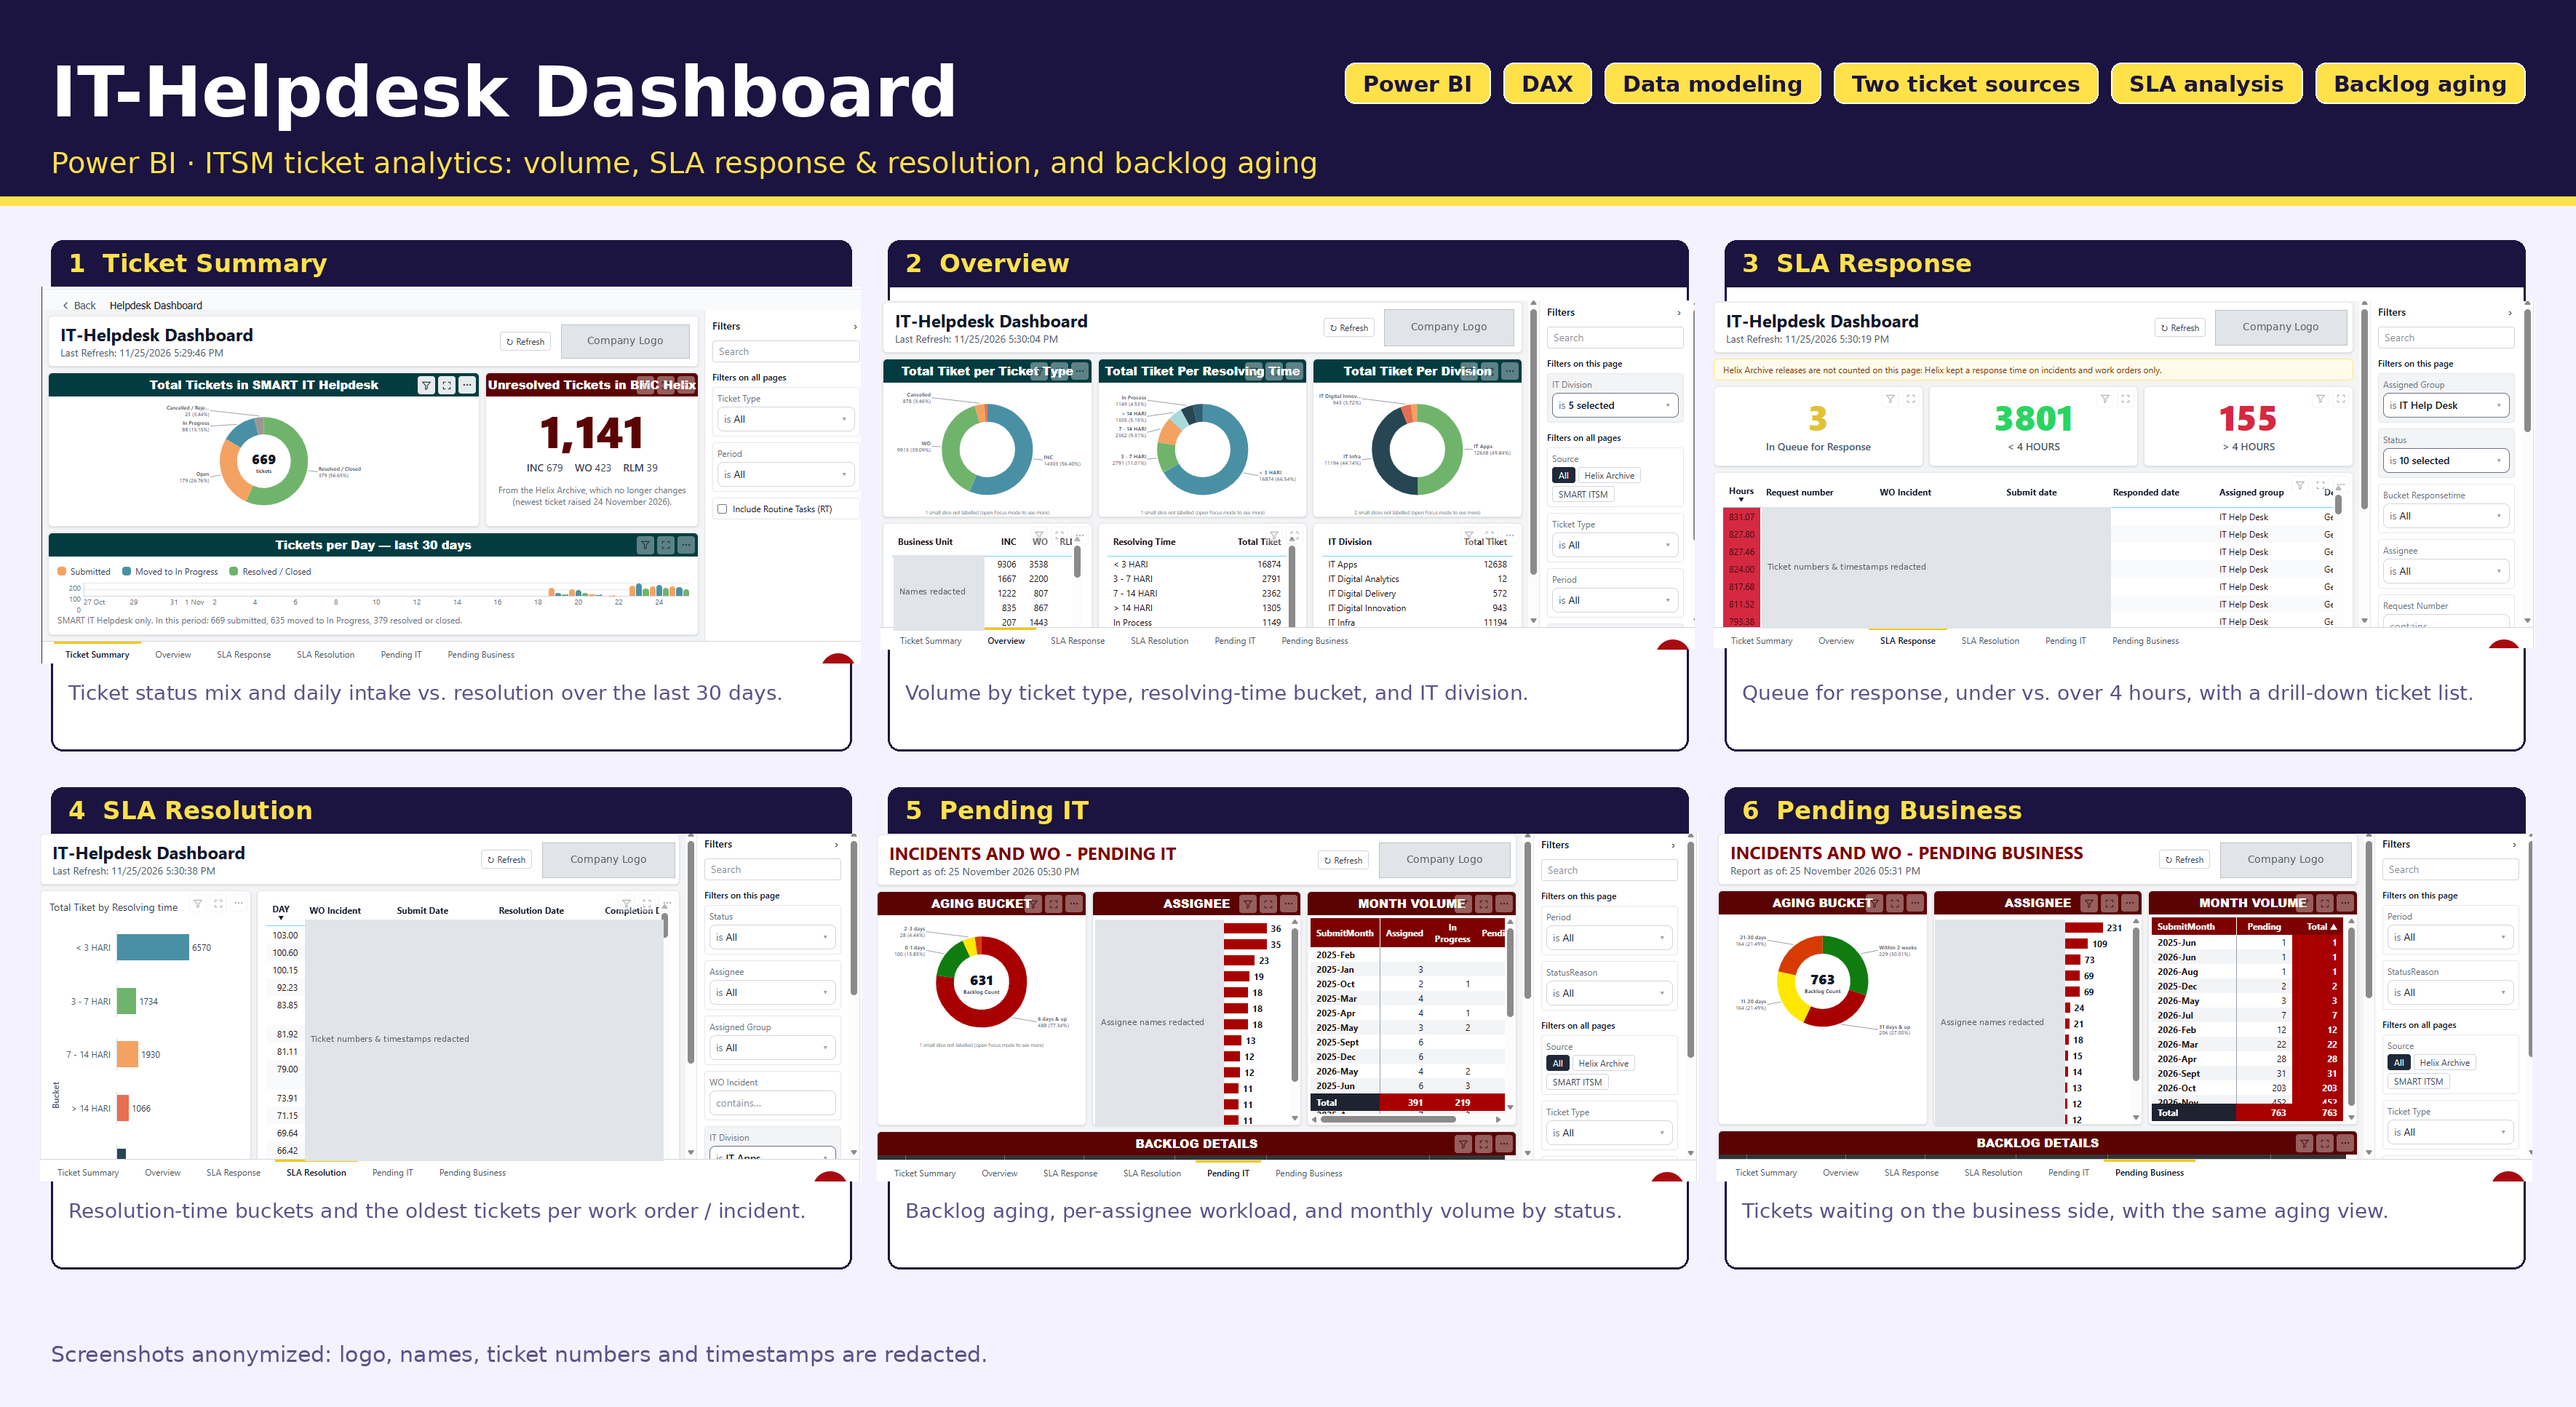
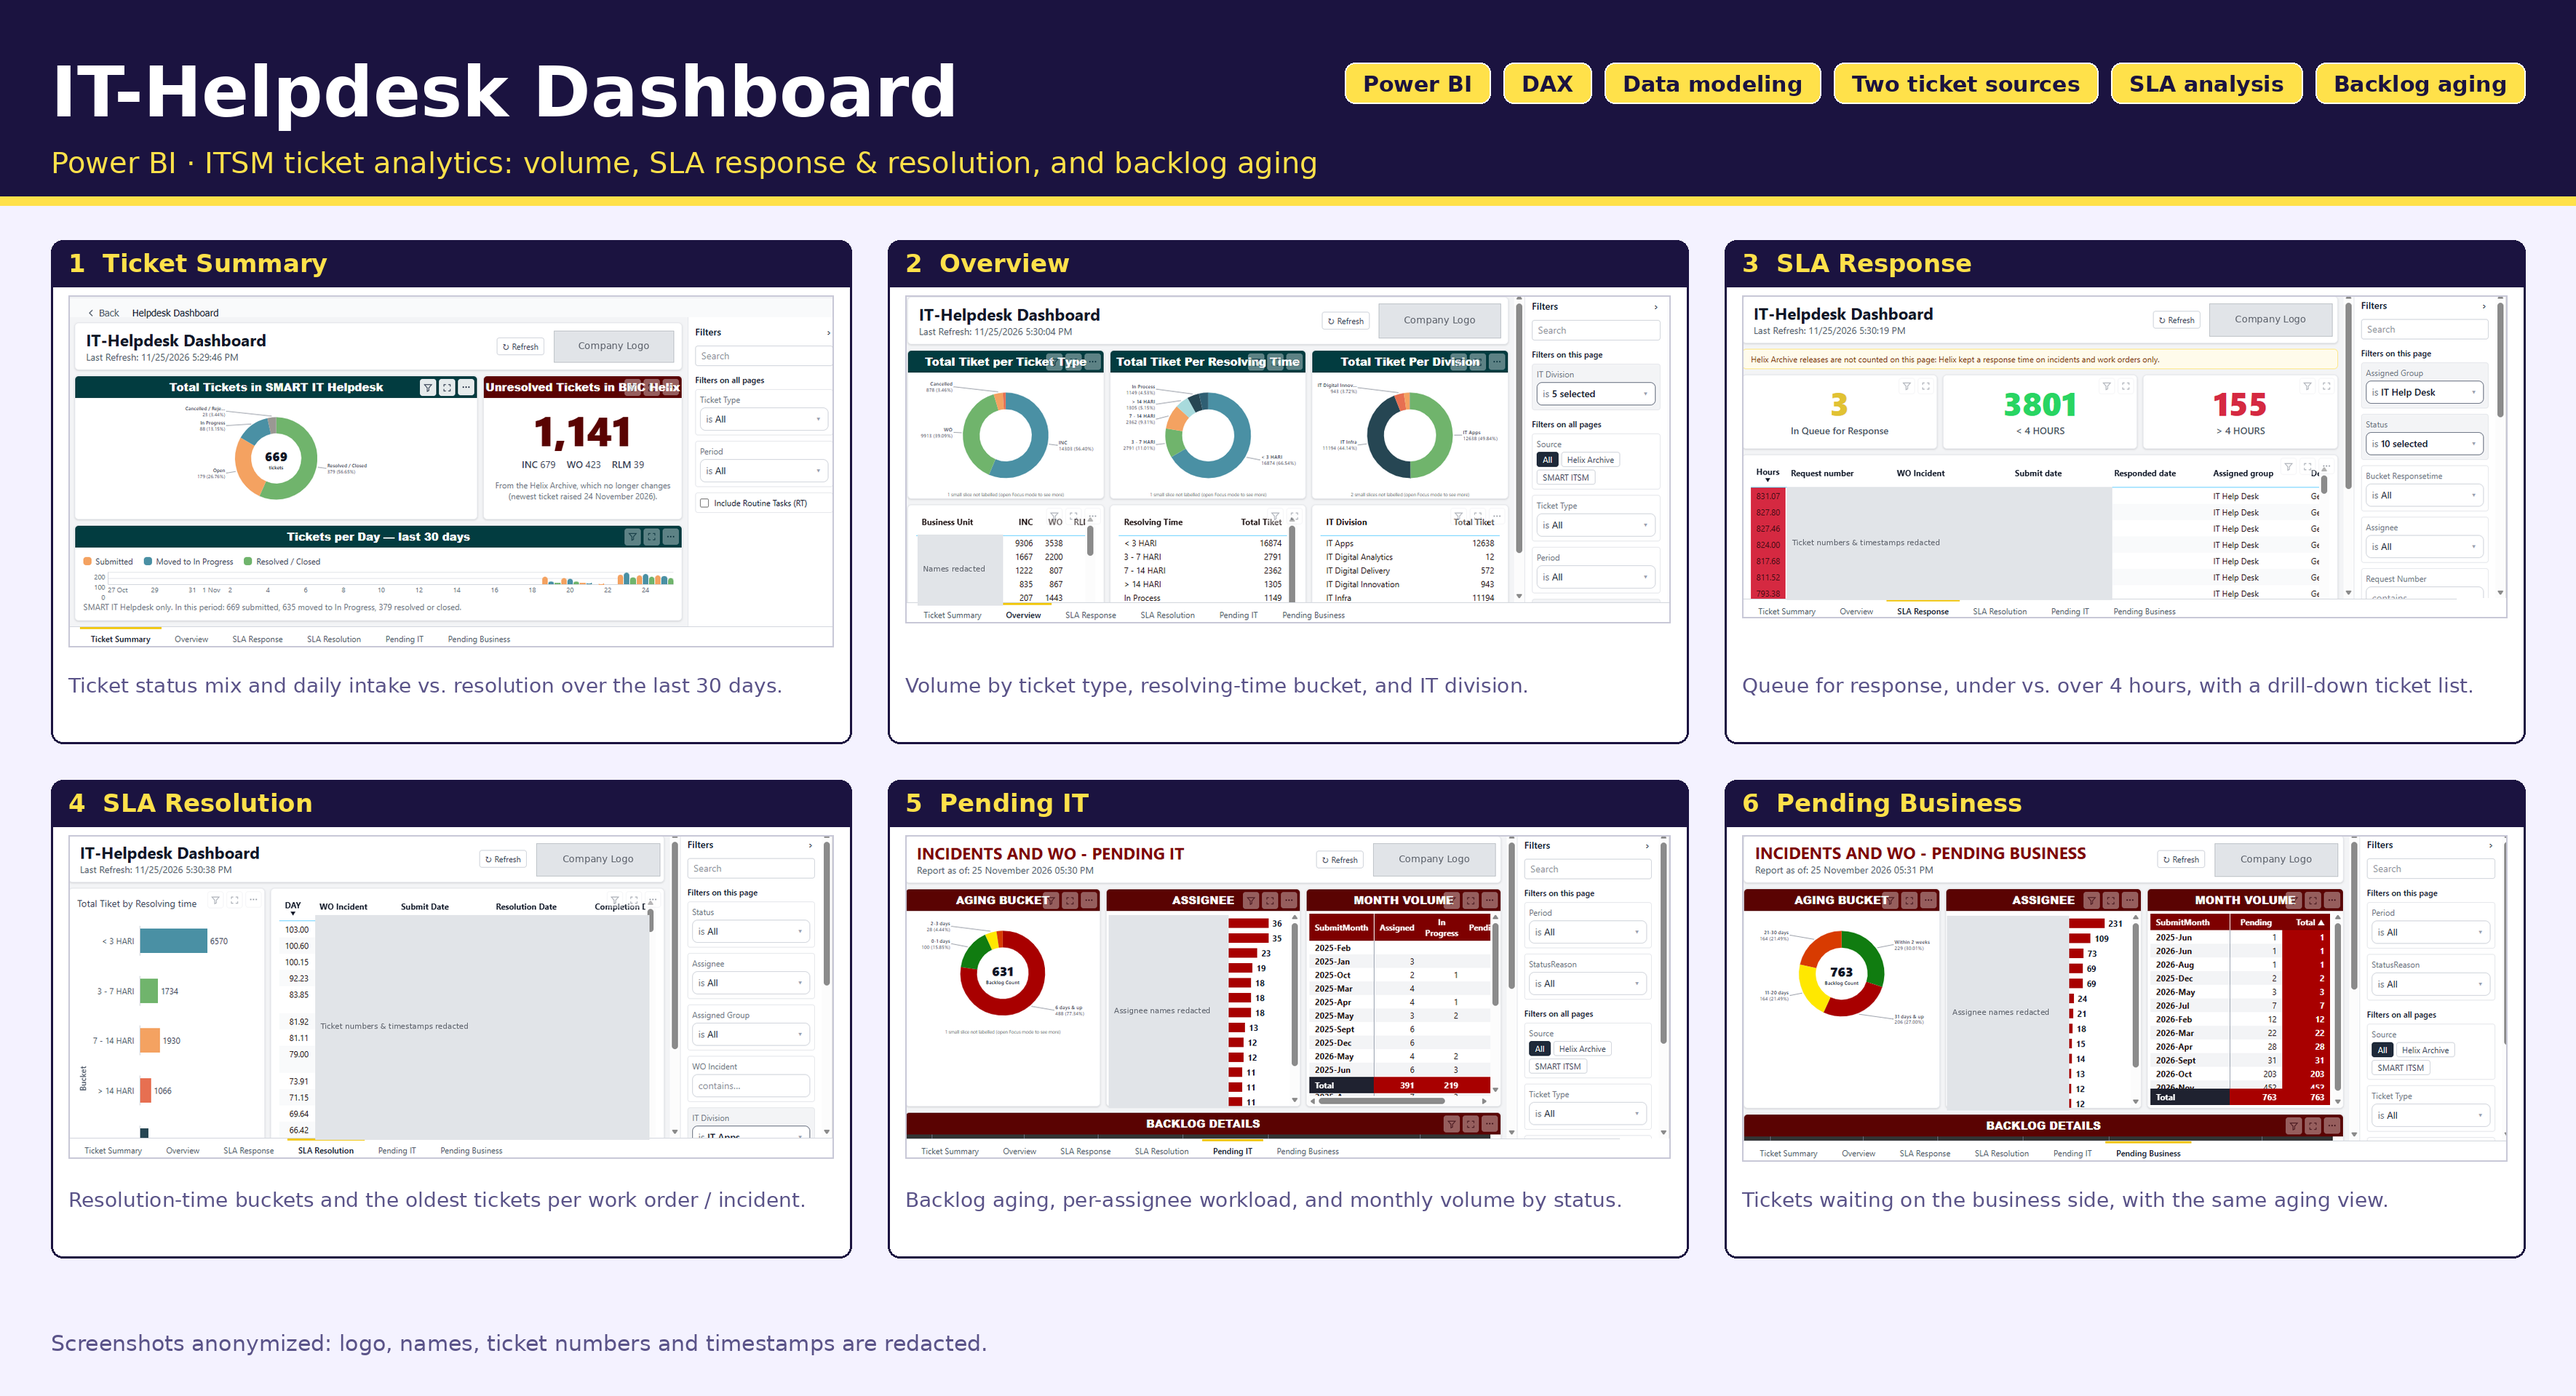
Fit helpdesk screenshots inside poster panels

diff --git a/lib/data.ts b/lib/data.ts
@@ -90,7 +90,7 @@ export const PROJECTS: Project[] = [
       src: "/projects/helpdesk/helpdesk-dashboard.png",
       alt: { id: "Ringkasan enam halaman IT-Helpdesk Dashboard (data disamarkan)", en: "Overview of the six pages of the IT-Helpdesk Dashboard (anonymized)" },
       w: 3540,
-      h: 1934,
+      h: 1919,
     },
     problem: {
       id: "Data tiket tersebar di dua sistem (arsip lama dan platform ITSM yang berjalan), sehingga sulit melihat gambaran utuh volume tiket, kecepatan respons, dan tiket yang menumpuk.",
